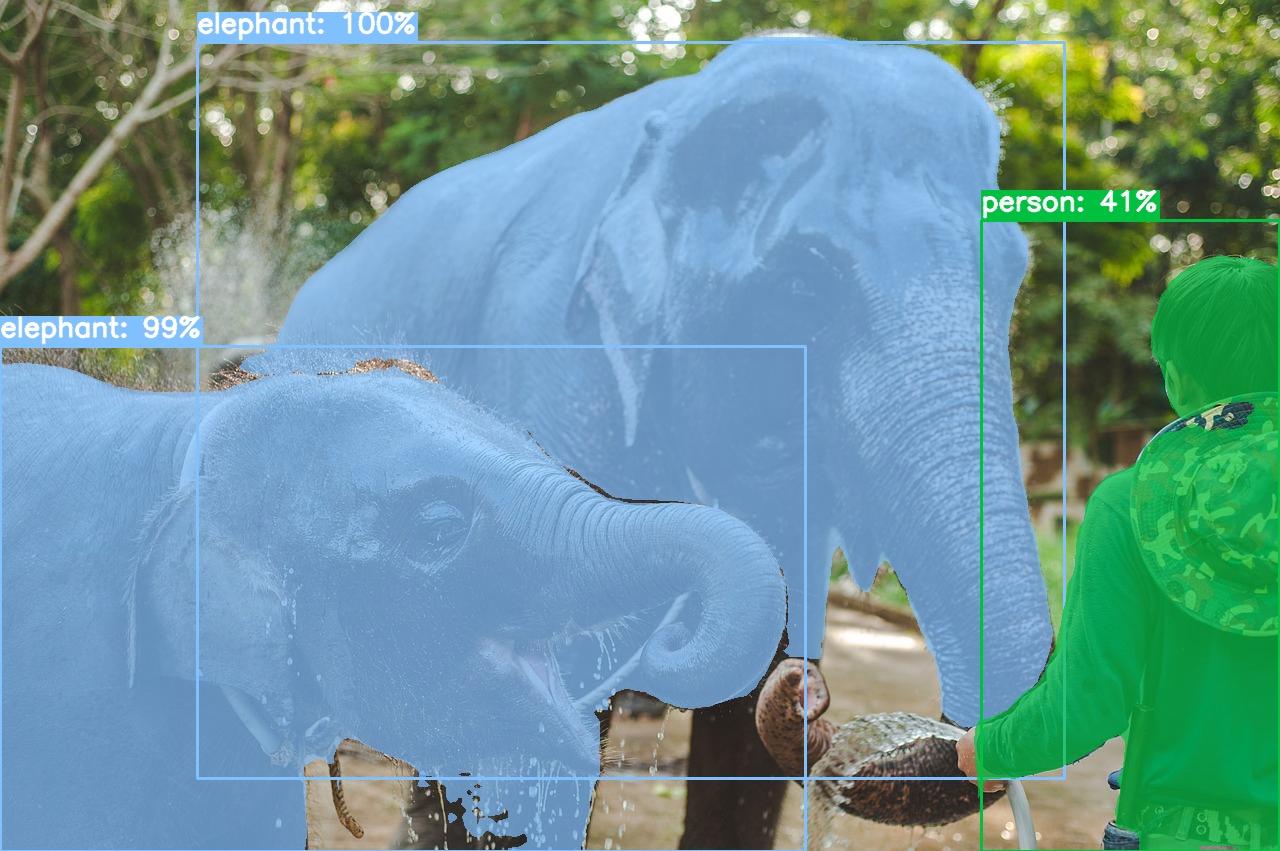
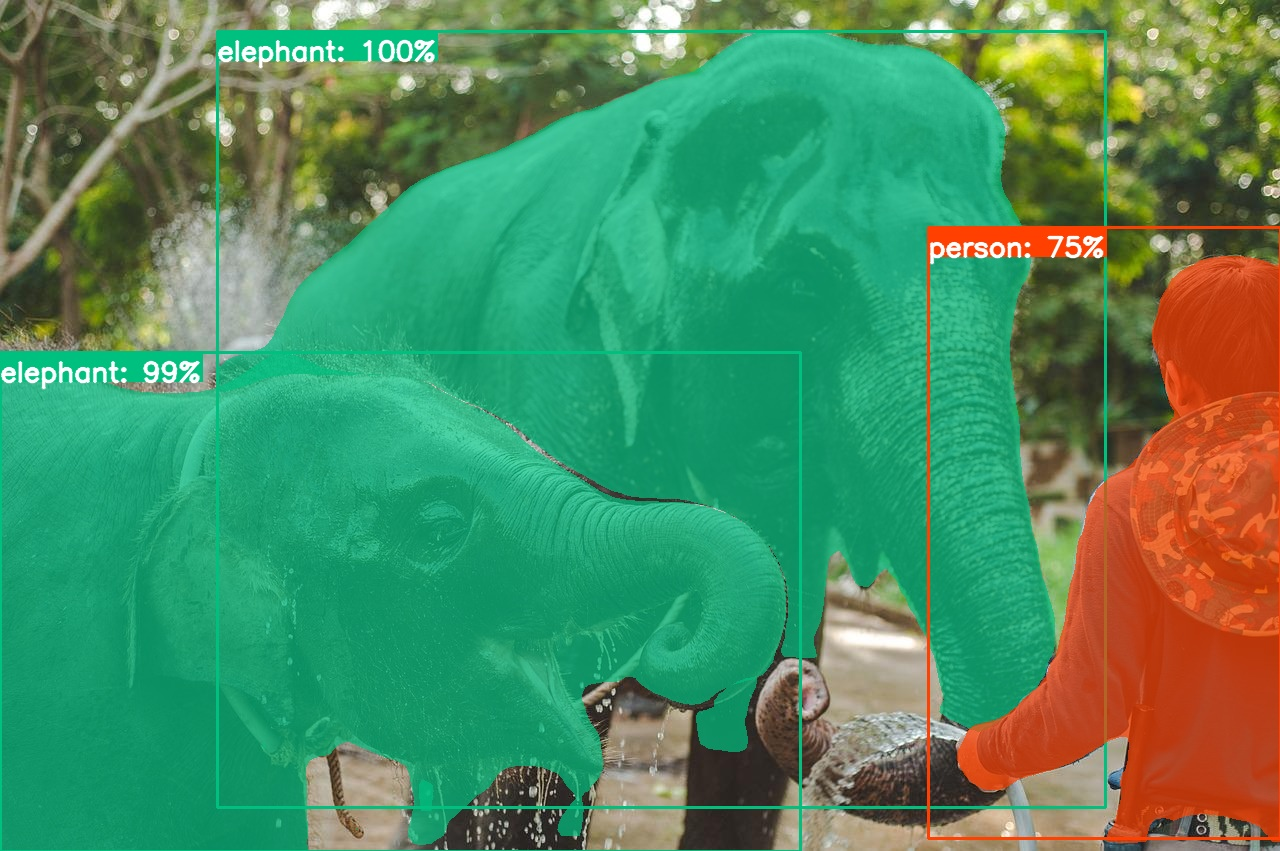
Fix critical bug in YOLACT inference pipeline [remove RGB->BGR conversion] (#548)
* inital commit

* also default parameters

* add new sample image

diff --git a/src/deepsparse/yolact/schemas.py b/src/deepsparse/yolact/schemas.py
@@ -45,7 +45,7 @@ class YOLACTInputSchema(BaseModel, Splittable):
     )
 
     confidence_threshold: float = Field(
-        default=0.2,
+        default=0.05,
         description="Confidence threshold applied to the raw detection at "
         "`detection` step. If a raw detection's score is lower "
         "than the threshold, it will be automatically discarded",
@@ -56,7 +56,7 @@ class YOLACTInputSchema(BaseModel, Splittable):
         "consider it valid (used in Non-Maximum-Suppression step)",
     )
     top_k_preprocessing: int = Field(
-        default=100,
+        default=200,
         description="The maximal number of best detections (per class) to be "
         "kept after the Non-Maximum-Suppression step",
     )

diff --git a/src/deepsparse/yolact/utils/utils.py b/src/deepsparse/yolact/utils/utils.py
@@ -60,8 +60,6 @@ def preprocess_array(
 
     image = image.transpose(0, 3, 1, 2)
     image /= 255
-    # BGR -> RGB
-    image = image[:, (2, 1, 0), :, :]
     image = numpy.ascontiguousarray(image)
 
     return image
